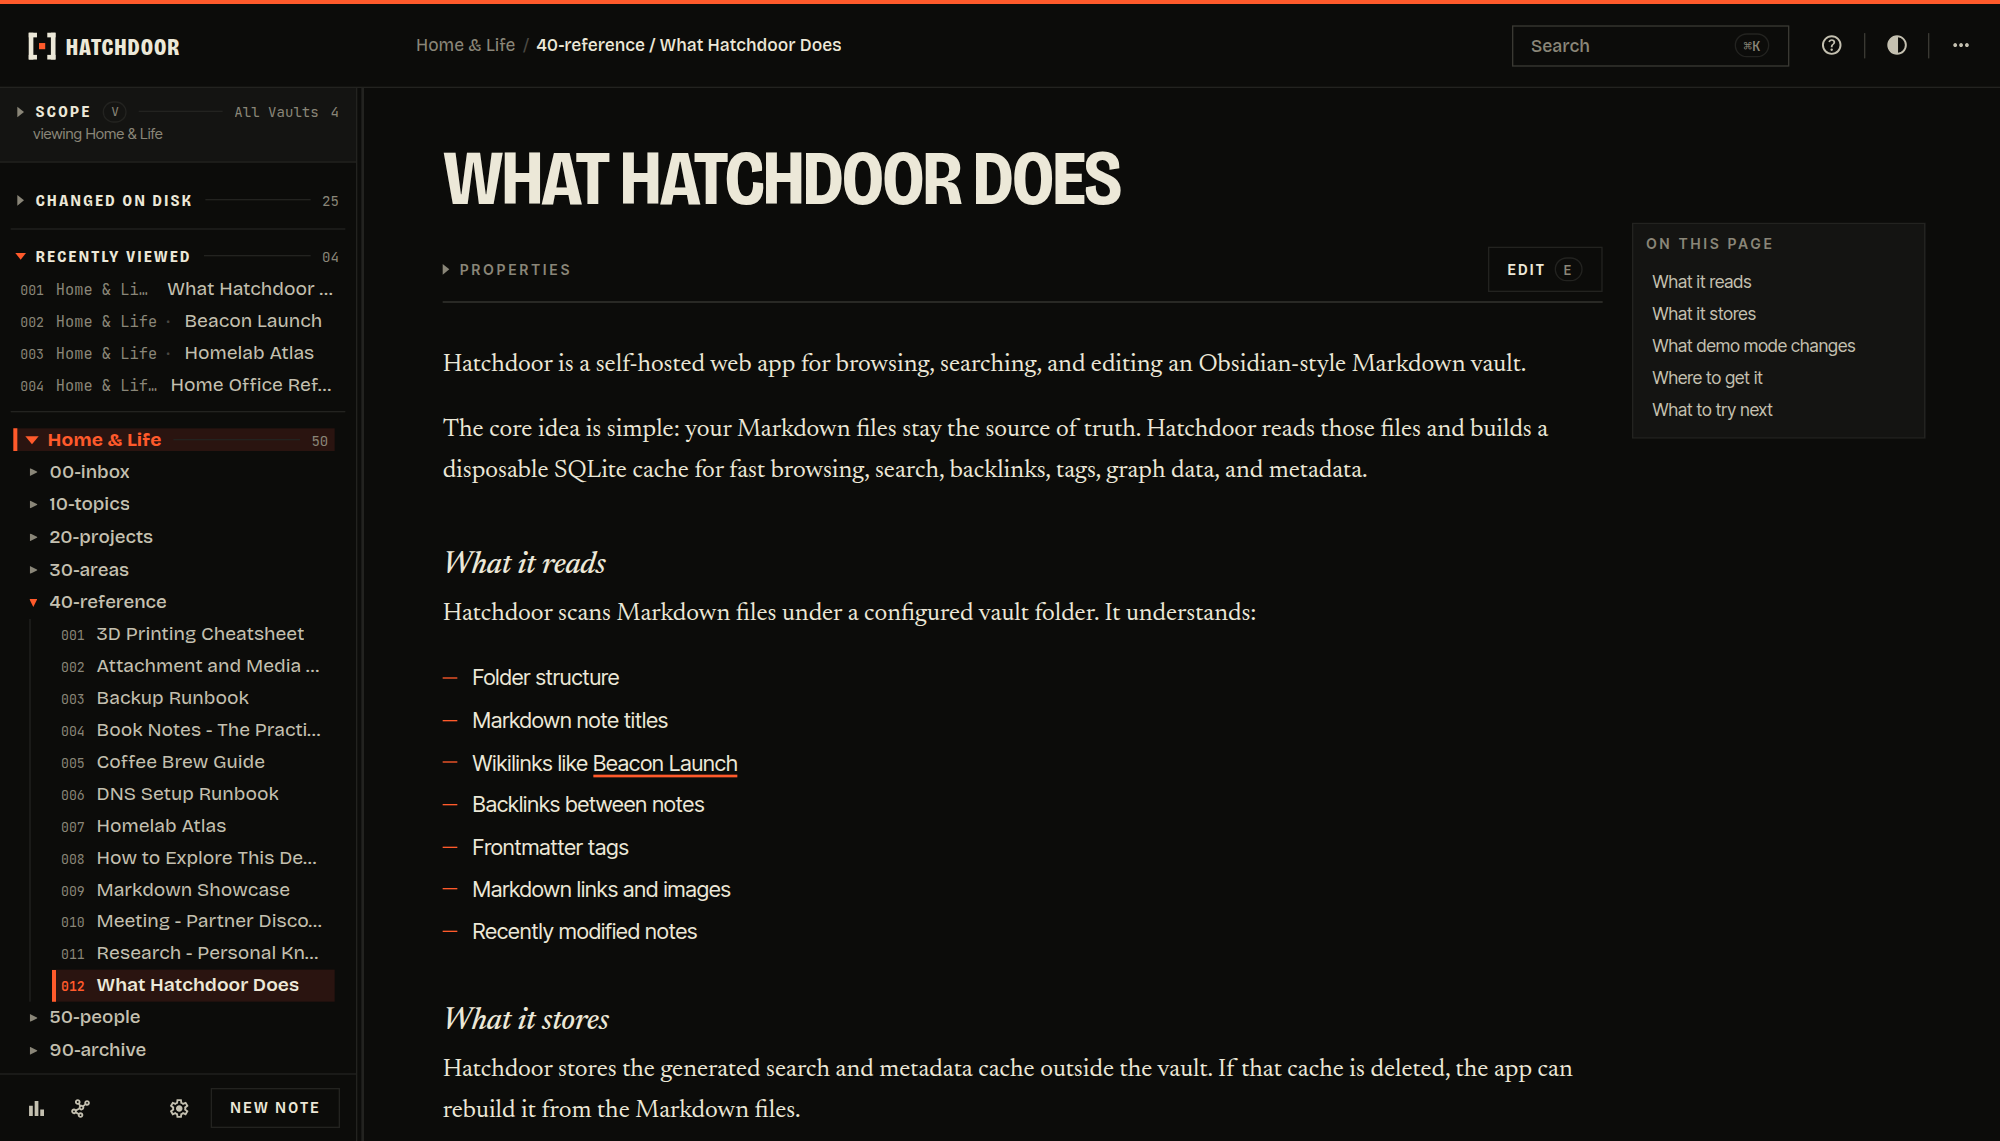
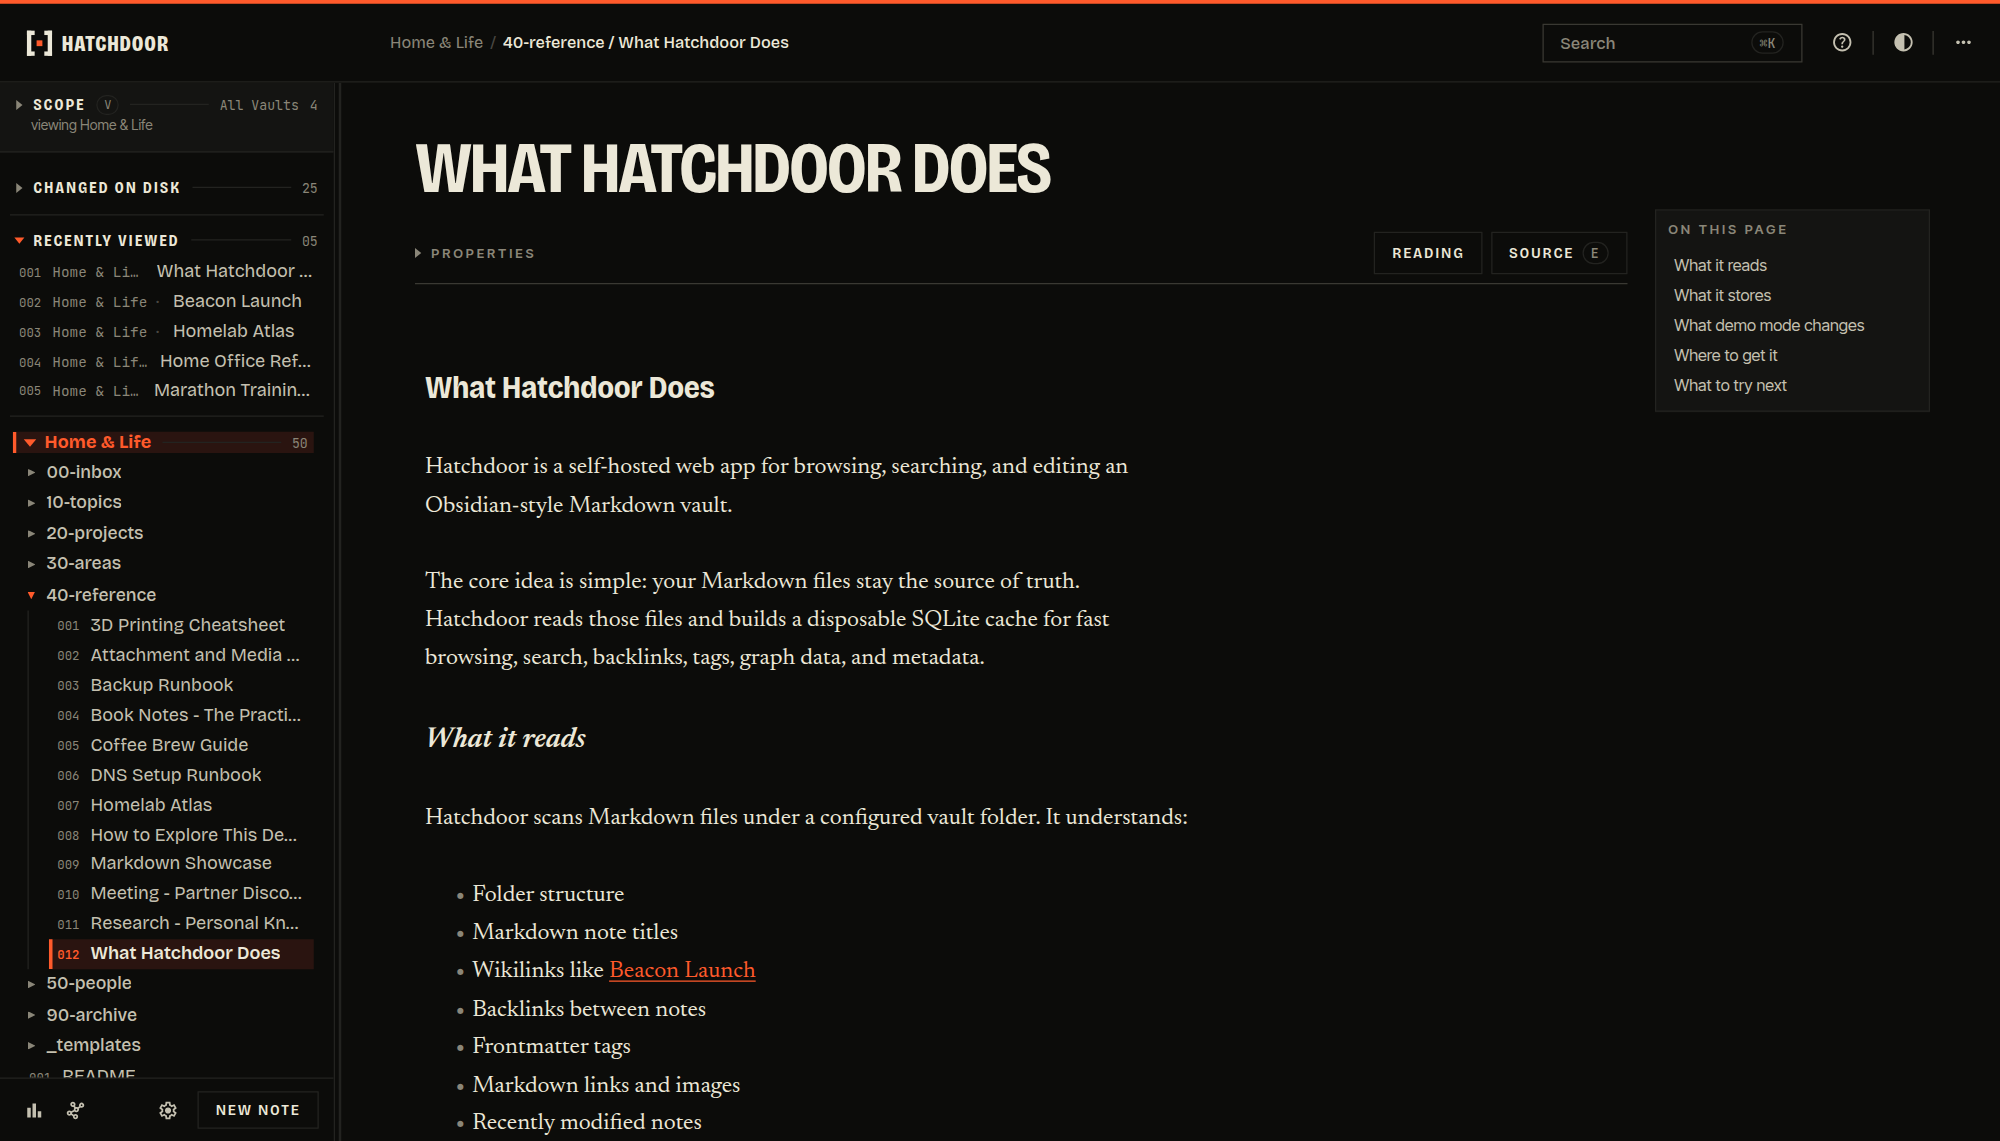
fix: name Source in the held-edit notice and recapture the note screenshots
The notice shown when a held edit meets a newer note on disk still
told the reader to use Edit, the button the live editor renamed to
Source. The three README screenshots of an open note showed that old
button too, so they are recaptured from the demo Vaults at the same
sizes.

Claude-Session: https://claude.ai/code/session_0164JGPDMbcS22dXYHjDSkE5

diff --git a/frontend/src/components/NotePage.tsx b/frontend/src/components/NotePage.tsx
@@ -995,7 +995,7 @@ export function NotePage({
     }
     if (stored.baseContentHash !== note.content_hash) {
       setRecoveredDraftNotice(
-        "An unsaved edit to this note is being held, but the note has changed since. Use Edit to review it against the current version.",
+        "An unsaved edit to this note is being held, but the note has changed since. Use Source to review it against the current version.",
       );
       return;
     }

diff --git a/frontend/src/components/NotePage.test.tsx b/frontend/src/components/NotePage.test.tsx
@@ -594,7 +594,7 @@ describe("NotePage crash-safe inline editing (#330)", () => {
 
     expect(await screen.findByText("Body on disk.")).toBeInTheDocument();
     expect(
-      screen.getByText(/the note has changed since. Use Edit to review it/),
+      screen.getByText(/the note has changed since. Use Source to review it/),
     ).toBeInTheDocument();
     expect(
       screen.queryByText("An edit based on an older version."),

diff --git a/CHANGELOG.md b/CHANGELOG.md
@@ -75,6 +75,7 @@
 - Two pieces of built-in help now say what Hatchdoor does. The help under **Settings** → **Meaning search in demoted layers** said a folder marked with a `.hatchdoor-layer` file stays out of the browser. It only stays out of normal search, and its notes still show in the sidebar, which the help now says. And an agent whose write fails with `write_failed` is now sent to the troubleshooting section "A write fails for some other reason", which says where to look. It used to be sent to a section about one cause that 2.7.0 removed. [#527]
 - On a phone, the Edit button on an open note no longer shows an unexplained `E` in a small pill beside its label. The `E` is the hint for the keyboard shortcut that opens the editor, so it now appears only in the desktop layout. Pressing `e` still opens the editor at every width. [#537]
 - Bullet lists in a note are indented again. In the Reading view the dash of every plain bullet was drawn on top of the first letter of its text, at every depth, on phones and desktops alike, because the indent had been lost when the old block editor was removed. Bullets are back to their indent, with the dash clear of the text. Numbered lists, task lists and lists in the live editor were not affected and have not changed. [#547]
+- The notice about a held edit names the right button. When a note has an unsaved edit that the note on disk has since moved past, the notice said "Use Edit to review it against the current version", but the live editor renamed that button to **Source**. It now says "Use Source". [#555]
 
 [#417]: https://github.com/BatterWorks/Hatchdoor/issues/417
 [#418]: https://github.com/BatterWorks/Hatchdoor/issues/418
